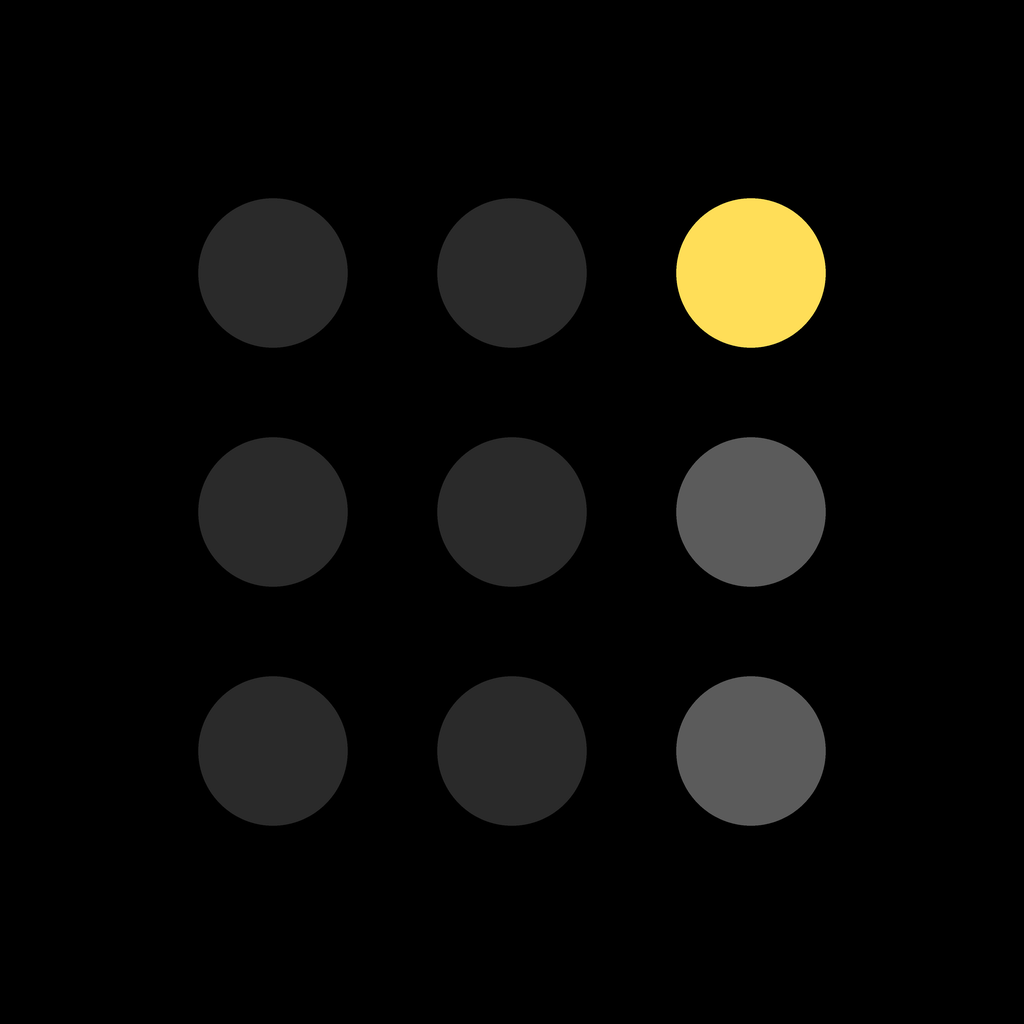
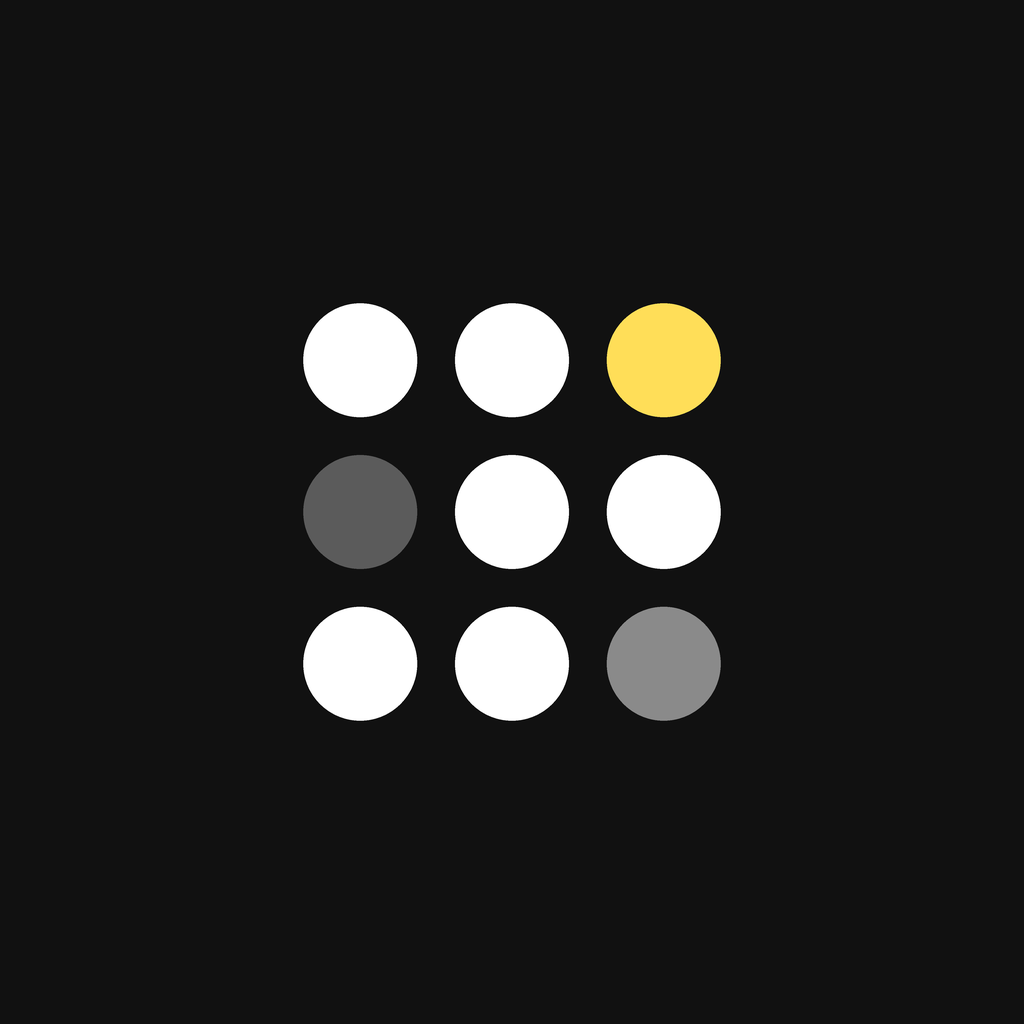
fix(rider): copy the printing_app adaptive mark
White dots on cockpit-black #111111, yellow top-right, muted
bottom-right, middle-left #5B5B5B. Same 108dp geometry as the
legacy launcher. Drops the charcoal six-pack.

Changed region(s): [[0.1875, 0.1875, 0.8125, 0.8125]]

diff --git a/__tests__/appIcon.test.ts b/__tests__/appIcon.test.ts
@@ -4,12 +4,10 @@ import { join } from "node:path";
 import type { ExpoConfig } from "expo/config";
 
 /**
- * The home-screen icon is the GRIDGO 3×3 mark on a black tile.
- *
- * `app.json` is the source of the paths Expo prebuild copies into the
- * native project. A leftover `react-logo*` asset, the default Expo
- * `#E6F4FE` plate, or a white adaptive background would put the wrong
- * icon on the launcher (captain rejected the white plate on 2026-08-19).
+ * The home-screen icon is the printing_app 3×3 mark on cockpit-black
+ * `#111111`. A leftover `react-logo*` asset, the Expo `#E6F4FE` plate,
+ * a white plate, or the rejected charcoal-on-`#000000` mark would put
+ * the wrong icon on the launcher.
  */
 
 const root = join(__dirname, "..");
@@ -93,15 +91,23 @@ function pngPixel(path: string, x: number, y: number): [number, number, number] 
   return [recon[i], recon[i + 1], recon[i + 2]];
 }
 
-function isBlack([r, g, b]: [number, number, number]): boolean {
-  return r < 16 && g < 16 && b < 16;
+function near(
+  pixel: [number, number, number],
+  target: [number, number, number],
+  tol = 8,
+): boolean {
+  return (
+    Math.abs(pixel[0] - target[0]) <= tol &&
+    Math.abs(pixel[1] - target[1]) <= tol &&
+    Math.abs(pixel[2] - target[2]) <= tol
+  );
 }
 
 describe("GRIDGO app icon", () => {
   it("points icon, adaptive layers, favicon and splash at the mark files", () => {
     expect(appJson.expo.icon).toBe("./assets/images/icon.png");
     expect(appJson.expo.android?.adaptiveIcon).toEqual({
-      backgroundColor: "#000000",
+      backgroundColor: "#111111",
       foregroundImage: "./assets/images/android-icon-foreground.png",
       backgroundImage: "./assets/images/android-icon-background.png",
       monochromeImage: "./assets/images/android-icon-monochrome.png",
@@ -110,14 +116,14 @@ describe("GRIDGO app icon", () => {
 
     const splash = pluginOptions("expo-splash-screen");
     expect(splash.image).toBe("./assets/images/splash-icon.png");
-    expect(splash.backgroundColor).toBe("#000000");
+    expect(splash.backgroundColor).toBe("#111111");
     expect(splash.dark).toEqual({
       image: "./assets/images/splash-icon-dark.png",
-      backgroundColor: "#000000",
+      backgroundColor: "#111111",
     });
   });
 
-  it("does not keep the Expo default blue plate or the rejected white plate", () => {
+  it("does not keep the Expo blue plate or the rejected white plate", () => {
     const encoded = JSON.stringify(appJson);
     expect(encoded).not.toContain("#E6F4FE");
     expect(encoded).not.toContain("#e6f4fe");
@@ -126,6 +132,9 @@ describe("GRIDGO app icon", () => {
     );
     expect(appJson.expo.android?.adaptiveIcon?.backgroundColor).not.toBe(
       "#ffffff",
+    );
+    expect(appJson.expo.android?.adaptiveIcon?.backgroundColor).not.toBe(
+      "#000000",
     );
   });
 
@@ -149,15 +158,15 @@ describe("GRIDGO app icon", () => {
     });
   });
 
-  it("paints a black plate, not a white one", () => {
+  it("paints the cockpit-black #111111 plate, not white", () => {
+    const plate: [number, number, number] = [0x11, 0x11, 0x11];
     const icon = join(images, "icon.png");
     const background = join(images, "android-icon-background.png");
-    // Corners sit outside the 3×3 grid on every generated size.
-    expect(isBlack(pngPixel(icon, 8, 8))).toBe(true);
-    expect(isBlack(pngPixel(icon, 1016, 8))).toBe(true);
-    expect(isBlack(pngPixel(icon, 8, 1016))).toBe(true);
-    expect(isBlack(pngPixel(background, 0, 0))).toBe(true);
-    expect(isBlack(pngPixel(background, 512, 512))).toBe(true);
+    expect(near(pngPixel(icon, 8, 8), plate)).toBe(true);
+    expect(near(pngPixel(icon, 1016, 8), plate)).toBe(true);
+    expect(near(pngPixel(icon, 8, 1016), plate)).toBe(true);
+    expect(near(pngPixel(background, 0, 0), plate)).toBe(true);
+    expect(near(pngPixel(background, 512, 512), plate)).toBe(true);
   });
 
   it("drops leftover Expo react-logo assets", () => {

diff --git a/scripts/generate-app-icon.py b/scripts/generate-app-icon.py
@@ -1,11 +1,17 @@
 #!/usr/bin/env python3
-"""Rasterise the GRIDGO 3×3 mark onto a black plate.
+"""Rasterise the legacy printing_app adaptive mark.
 
-Captain correction 2026-08-19: the launcher is a black rounded tile, not a
-white plate. Pure-black dots vanish on that plate; middle-right must be
-drawn grey so the background cannot show through as a hole.
+Source: printing_app ic_launcher_foreground.xml (108×108 viewport, r=6,
+path starts M32/48/64 — geometric centres 38/54/70) on cockpit-black
+#111111. Captain change: middle-left is #5B5B5B, not white.
 
-  python3 scripts/generate-app-icon.py
+    #FFFFFF  #FFFFFF  #FFDE58
+    #5B5B5B  #FFFFFF  #FFFFFF
+    #FFFFFF  #FFFFFF  #8A8A8A
+
+Run from the repo root:
+
+    python3 scripts/generate-app-icon.py
 """
 
 from __future__ import annotations
@@ -14,22 +20,20 @@ from pathlib import Path
 
 from PIL import Image, ImageDraw
 
-# Readable on #000000. Pure black dots disappear into the plate.
-DOT_STRUCT = (0x2A, 0x2A, 0x2A, 255)
+# printing_app values/ic_launcher_colors.xml
+PLATE = (0x11, 0x11, 0x11, 255)
+DOT_WHITE = (0xFF, 0xFF, 0xFF, 255)
 DOT_YELLOW = (0xFF, 0xDE, 0x58, 255)
-DOT_GRAY = (0x5B, 0x5B, 0x5B, 255)
-PLATE = (0x00, 0x00, 0x00, 255)
-MONO = (0xFF, 0xFF, 0xFF, 255)
+DOT_MID_LEFT = (0x5B, 0x5B, 0x5B, 255)
+DOT_BOT_RIGHT = (0x8A, 0x8A, 0x8A, 255)
 
-# favicon.svg viewBox="0 0 48 48": centres at 8/24/40, r=5.
-CENTRES = (8, 24, 40)
-RADIUS = 5
-VIEW = 48
+# Vector viewport 108. Path `M32,38 a6,6 …` is a r=6 circle whose centre
+# is start + radius, i.e. 38 / 54 / 70. Do not add a second safe-zone
+# inset: the 108 canvas already is the adaptive icon.
+VIEW = 108
+CENTRES = (38, 54, 70)
+RADIUS = 6
 
-# Android adaptive icons are 108dp; the unmasked safe zone is the inner 66dp.
-SAFE_ZONE = 66 / 108
-
-# Super-sample then Lanczos-down so the dots stay round, not stair-stepped.
 SCALE = 4
 
 ROOT = Path(__file__).resolve().parent.parent
@@ -38,54 +42,32 @@ OUT = ROOT / "assets" / "images"
 
 def dot_fill(col: int, row: int, *, mono: bool) -> tuple[int, int, int, int]:
     if mono:
-        return MONO
+        return DOT_WHITE
     if col == 2 and row == 0:
         return DOT_YELLOW
-    # Middle-right and bottom-right are both grey. An empty middle-right
-    # cell used to punch a white hole through the old light plate.
-    if col == 2:
-        return DOT_GRAY
-    return DOT_STRUCT
+    if col == 0 and row == 1:
+        return DOT_MID_LEFT
+    if col == 2 and row == 2:
+        return DOT_BOT_RIGHT
+    return DOT_WHITE
 
 
-def draw_mark(
-    size: int,
-    *,
-    mono: bool = False,
-    inner_ratio: float = 1.0,
-    background: tuple[int, int, int, int] = (0, 0, 0, 0),
-) -> Image.Image:
-    """Paint all nine dots into a size×size canvas.
-
-    `inner_ratio` is the fraction of the canvas the 48-unit viewBox occupies
-    (centred). 66/108 puts every dot inside Android's adaptive safe zone.
-    """
+def draw_mark(size: int, *, mono: bool = False) -> Image.Image:
+    """Paint the 3×3 mark into a size×size opaque #111111 plate."""
     big = size * SCALE
-    canvas = Image.new("RGBA", (big, big), background)
+    canvas = Image.new("RGBA", (big, big), PLATE)
     draw = ImageDraw.Draw(canvas)
-
-    inner = size * inner_ratio
-    origin = (size - inner) / 2
-    unit = inner / VIEW
+    unit = size / VIEW
 
     for row, cy in enumerate(CENTRES):
         for col, cx in enumerate(CENTRES):
-            fill = dot_fill(col, row, mono=mono)
-            px = (origin + cx * unit) * SCALE
-            py = (origin + cy * unit) * SCALE
+            color = dot_fill(col, row, mono=mono)
+            px = cx * unit * SCALE
+            py = cy * unit * SCALE
             r = RADIUS * unit * SCALE
-            draw.ellipse((px - r, py - r, px + r, py + r), fill=fill)
+            draw.ellipse((px - r, py - r, px + r, py + r), fill=color)
 
     return canvas.resize((size, size), Image.Resampling.LANCZOS)
-
-
-def composite_plate(
-    mark: Image.Image,
-    color: tuple[int, int, int, int] = PLATE,
-) -> Image.Image:
-    plate = Image.new("RGBA", mark.size, color)
-    plate.alpha_composite(mark)
-    return plate.convert("RGB")
 
 
 def save_png(image: Image.Image, name: str) -> None:
@@ -97,23 +79,16 @@ def save_png(image: Image.Image, name: str) -> None:
 def main() -> None:
     OUT.mkdir(parents=True, exist_ok=True)
 
-    # Home-screen / iOS icon: opaque black plate, mark inset so the squircle
-    # mask does not clip a corner dot.
-    save_png(composite_plate(draw_mark(1024, inner_ratio=0.70)), "icon.png")
-
-    # Adaptive layers. Foreground draws every dot (no holes). Background is
-    # the black tile. Monochrome is a white nine-dot silhouette so Android
-    # can tint it; on the black plate all nine stay visible.
-    save_png(draw_mark(1024, inner_ratio=SAFE_ZONE), "android-icon-foreground.png")
+    mark = draw_mark(1024).convert("RGB")
+    save_png(mark, "icon.png")
+    save_png(mark, "android-icon-foreground.png")
     save_png(Image.new("RGB", (1024, 1024), PLATE[:3]), "android-icon-background.png")
-    save_png(draw_mark(1024, mono=True, inner_ratio=SAFE_ZONE), "android-icon-monochrome.png")
+    save_png(draw_mark(1024, mono=True).convert("RGB"), "android-icon-monochrome.png")
 
-    # Splash matches the tile: same nine-dot mark on a black field.
-    save_png(draw_mark(1024, inner_ratio=0.72), "splash-icon.png")
-    save_png(draw_mark(1024, inner_ratio=0.72), "splash-icon-dark.png")
-
-    # Web tab icon: same black plate so it does not flash white in a dark tab.
-    save_png(composite_plate(draw_mark(48, inner_ratio=0.84)), "favicon.png")
+    # Same plate + mark as the launcher so splash cannot invert or charcoal.
+    save_png(mark, "splash-icon.png")
+    save_png(mark, "splash-icon-dark.png")
+    save_png(draw_mark(48).convert("RGB"), "favicon.png")
 
 
 if __name__ == "__main__":
